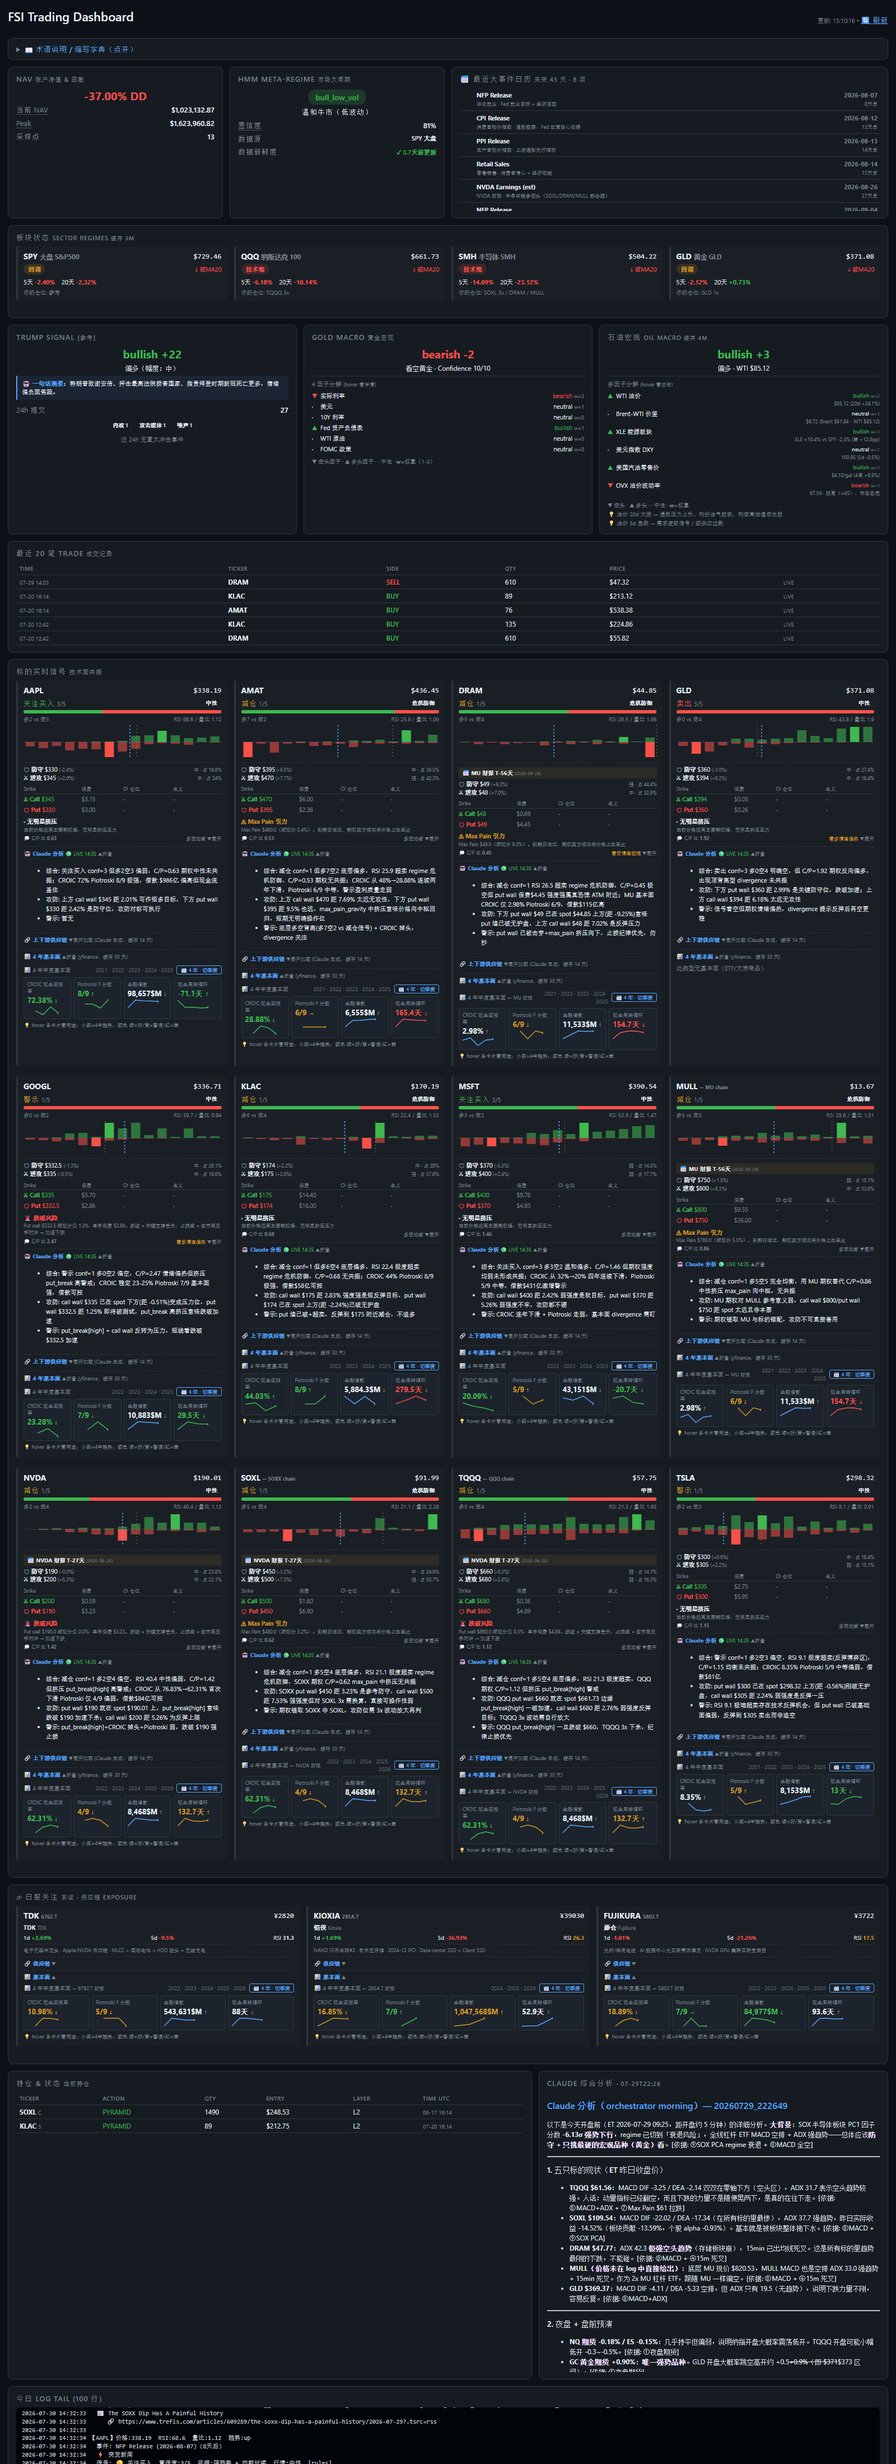
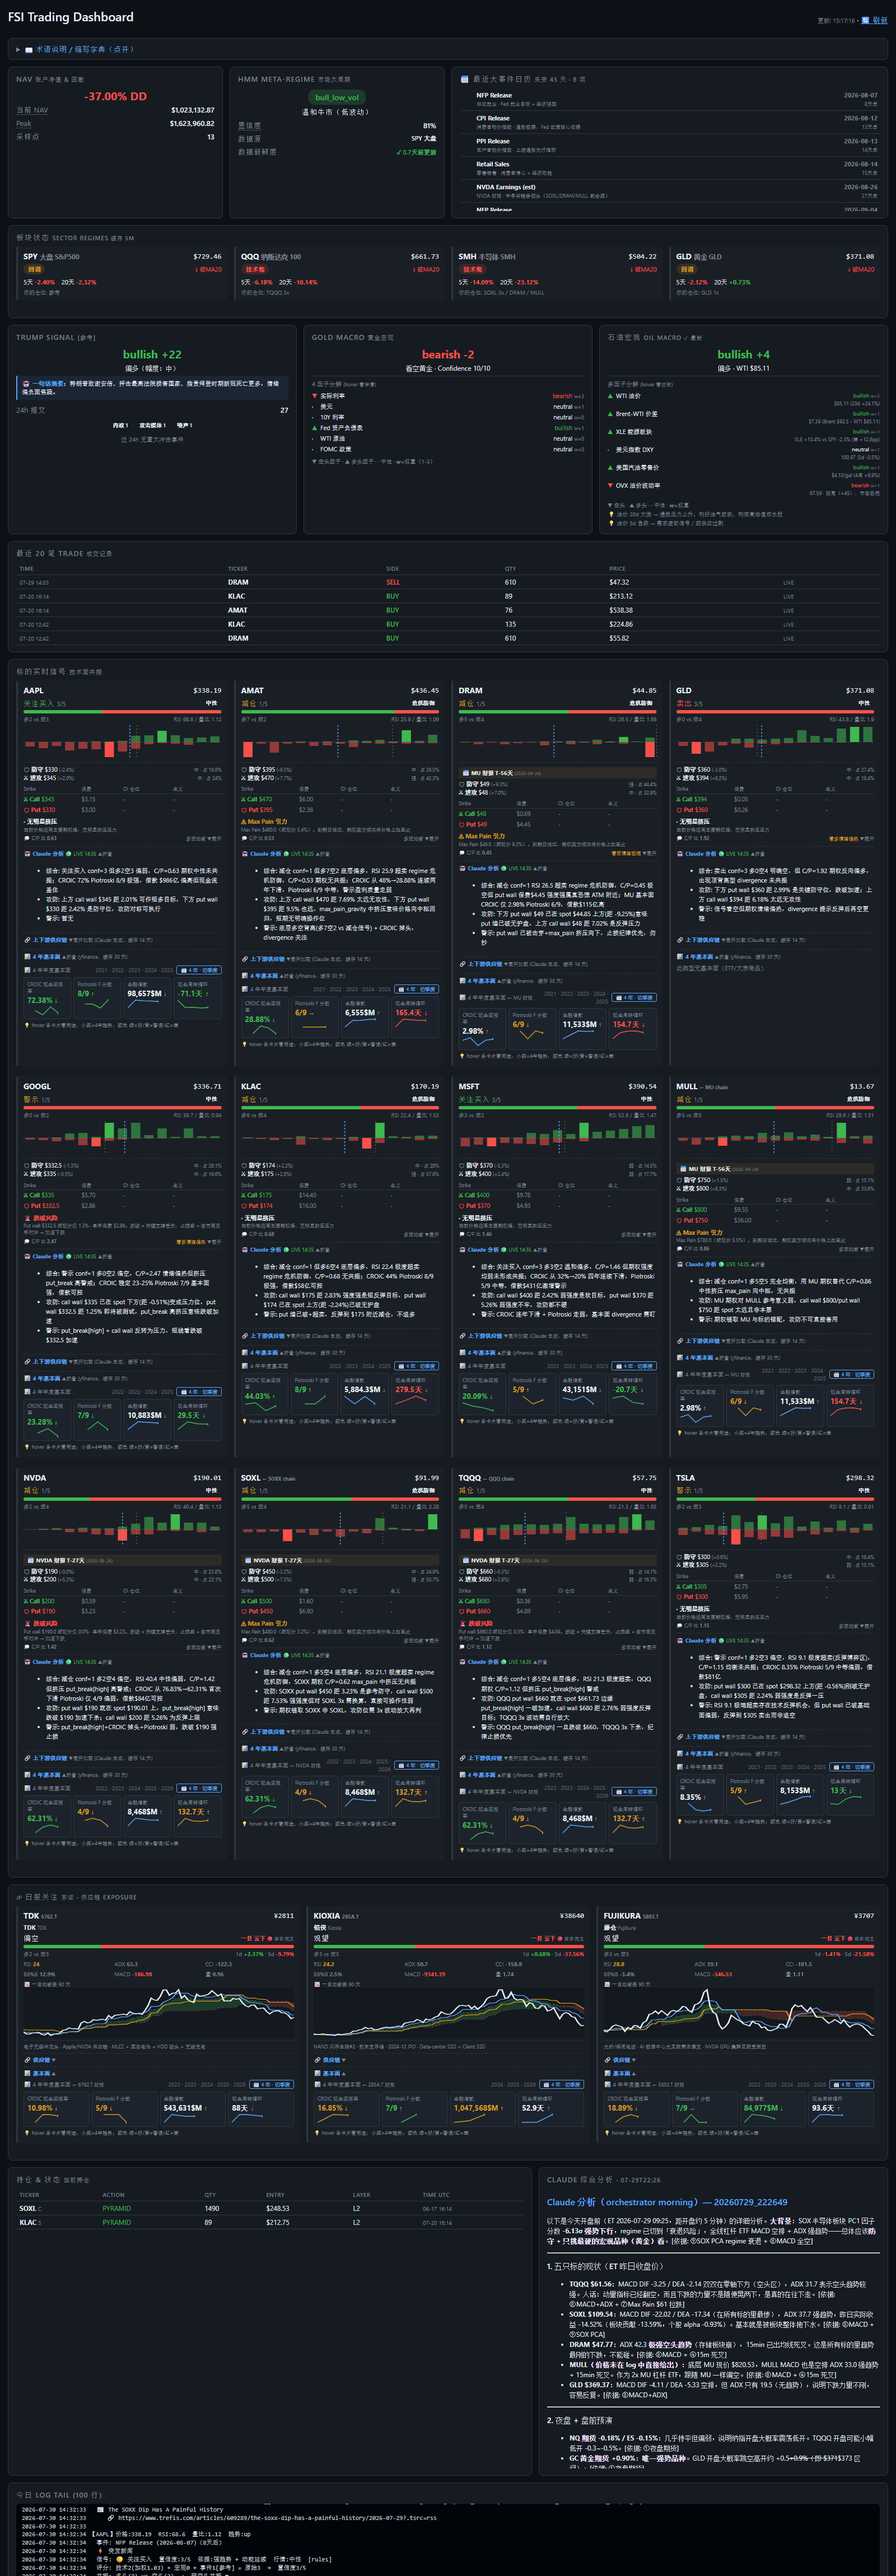
feat(webui): 日股卡完整技术栈 + 一目均衡表 SVG 云图
Phase 1: 日股卡跑完整技术指标（等价美股卡）
Phase 2: 加日本人发明的一目均衡表（云上/云下/云中 + Kumo 云可视化）

【后端 _compute_jp_watch 扩展】
从 yfinance 拉 6 月日线，算全套技术指标：
- RSI(14) / BB(20,2σ) / MACD(12,26,9) / ADX(14) / CCI(20)
- MA5/20/50 · 量比
- 一目均衡表: 転換線(9) / 基準線(26) / Senkou A/B(52)
- 共振 bull/bear count + action 建议
- 90 天时间序列（close / tenkan / kijun / span_a / span_b）供 SVG 画云

【前端】
- JP 卡改成美股卡样式: 建议 action + 多空共振条 + 6 项技术指标 grid
- 顶部一目位置 badge: 云上(绿) / 云下(红) / 云中(黄) + Kumo 云自身色 + tk 金/死叉
- renderIchimoku SVG: 90 天日线，绘制:
  · 白线=收盘价 · 蓝=転換線 · 橙=基準線
  · 绿虚=先行 Span A · 红虚=Span B
  · Kumo 云填充: SpanA>SpanB 绿云 / SpanA<SpanB 红云
- 保留供应链 + 基本面折叠

【实盘信号（当前）】
3 只 JP 半导体供应链股全部呈现 极端超卖 + 云下死叉:
- TDK: RSI 24, BB% 12.9, ADX 63(强下跌), 云下, 死叉, MA20<MA50 空排
- 铠侠: RSI 24.2, BB% 2.5%(触下轨), MACD -9341/-6044 崩塌, 云下
- 藤仓: RSI 28.8, BB% -3.4%(跌破下轨), CCI -181 极端超卖, 云下
→ 半导体链条 JP 端集体在极端超卖区，反弹条件初步具备但需 MACD 拐点确认

diff --git a/agents/dashboard.html b/agents/dashboard.html
@@ -296,6 +296,70 @@ function eventHint(evName) {
   return '';
 }
 
+// Ichimoku 云图（SVG）—— 显示最后 90 天 close + tenkan + kijun + Kumo 云
+function renderIchimoku(t, W = 260, H = 90) {
+  const s = t.series || {};
+  const close = s.close || [];
+  if (close.length < 30) return '';
+  const tenkan = s.tenkan || [];
+  const kijun  = s.kijun || [];
+  const spanA  = s.span_a || [];
+  const spanB  = s.span_b || [];
+  // 过滤 null，同步 index
+  const all = [...close, ...tenkan, ...kijun, ...spanA, ...spanB].filter(v => v != null);
+  const lo = Math.min(...all), hi = Math.max(...all);
+  const pad = (hi - lo) * 0.05 || 1;
+  const yLo = lo - pad, yHi = hi + pad;
+  const n = close.length;
+  const xAt = i => (i / (n - 1)) * W;
+  const yAt = v => v == null ? null : H - ((v - yLo) / (yHi - yLo)) * H;
+
+  // Kumo 云：spanA/spanB 之间的填充
+  const cloudPts = [];
+  for (let i = 0; i < n; i++) {
+    const a = spanA[i], b = spanB[i];
+    if (a == null || b == null) continue;
+    cloudPts.push({ x: xAt(i), a: yAt(a), b: yAt(b) });
+  }
+  let cloudPath = '';
+  if (cloudPts.length >= 2) {
+    // 分段染色：spanA > spanB → 绿云（多） / else 红云（空）
+    const buildSeg = (segPts, isBull) => {
+      const top = segPts.map(p => `${p.x.toFixed(1)},${p.a.toFixed(1)}`).join(' L');
+      const bot = [...segPts].reverse().map(p => `${p.x.toFixed(1)},${p.b.toFixed(1)}`).join(' L');
+      const fill = isBull ? 'rgba(63,185,80,0.22)' : 'rgba(248,81,73,0.22)';
+      return `<path d="M${top} L${bot} Z" fill="${fill}"/>`;
+    };
+    let cur = [], curBull = null;
+    cloudPts.forEach(p => {
+      const isBull = p.a < p.b ? false : true;   // svg y 是反的：yAt(spanA) < yAt(spanB) 对应 spanA > spanB
+      // 修正判断：spanA_val > spanB_val → 绿
+      // p.a = yAt(spanA), p.b = yAt(spanB). 由于 y 轴反向，yAt(spanA) < yAt(spanB) 表示 spanA 数值大 → 绿
+      const bull = p.a < p.b;
+      if (curBull === null || curBull === bull) {
+        cur.push(p); curBull = bull;
+      } else {
+        if (cur.length >= 2) cloudPath += buildSeg(cur, curBull);
+        cur = [cur.at(-1), p]; curBull = bull;
+      }
+    });
+    if (cur.length >= 2) cloudPath += buildSeg(cur, curBull);
+  }
+  const linePath = (arr, color, w = 1.2, dash = null) => {
+    const pts = arr.map((v, i) => v == null ? null : `${xAt(i).toFixed(1)},${yAt(v).toFixed(1)}`)
+                    .filter(Boolean).join(' L');
+    return pts ? `<path d="M${pts}" stroke="${color}" stroke-width="${w}" fill="none"${dash ? ` stroke-dasharray="${dash}"` : ''}/>` : '';
+  };
+  return `<svg width="100%" height="${H}" viewBox="0 0 ${W} ${H}" preserveAspectRatio="none" style="display:block; background:rgba(13,17,23,0.5); border-radius:3px">
+    ${cloudPath}
+    ${linePath(spanA, 'rgba(63,185,80,0.5)', 0.8, '2,2')}
+    ${linePath(spanB, 'rgba(248,81,73,0.5)', 0.8, '2,2')}
+    ${linePath(kijun, '#d29922', 1.2)}
+    ${linePath(tenkan, '#58a6ff', 1.2)}
+    ${linePath(close, '#e6edf3', 1.5)}
+  </svg>`;
+}
+
 async function loadJPWatch() {
   const r = await fetchJson('/api/jp_watch');
   const el = $('jp-watch');
@@ -306,18 +370,47 @@ async function loadJPWatch() {
     const p1cls = t.pct_1d > 0 ? 'ok' : (t.pct_1d < 0 ? 'bad' : 'muted');
     const p5cls = t.pct_5d != null ? (t.pct_5d > 0 ? 'ok' : (t.pct_5d < 0 ? 'bad' : 'muted')) : 'muted';
     const rsiCls = t.rsi >= 70 ? 'warn' : (t.rsi <= 30 ? 'warn' : 'muted');
+    const total = (t.bull_count || 0) + (t.bear_count || 0);
+    const bullPct = total ? (t.bull_count / total * 100) : 50;
+    const bearPct = total ? (t.bear_count / total * 100) : 50;
+    const actionCls = sideCls(t.action_zh);
+    const ichi = t.ichimoku || {};
+    const ichiCls = { bullish:'ok', bearish:'bad', neutral:'warn' }[ichi.direction] || '';
+    const cloudBadge = { bullish:'🟢 多云', bearish:'🔴 空云' }[ichi.cloud_color] || '⚪ 云';
+    const macdCls = t.macd_dif > t.macd_dea ? 'ok' : 'bad';
     return `
-    <div class="signal-card" title="${t.thesis}">
+    <div class="signal-card">
       <div class="top-row">
         <span class="ticker-name">${t.ticker} <small style="color:var(--muted); font-size:9px">${t.symbol}</small></span>
         <span class="price">¥${t.price}</span>
       </div>
       <div style="font-size:11px; margin:3px 0"><b>${t.name_zh}</b> <small style="color:var(--muted)">${t.name_en}</small></div>
-      <div style="display:flex; justify-content:space-between; font-size:10px; margin:4px 0">
-        <span>1d <b class="${p1cls}">${t.pct_1d > 0 ? '+' : ''}${t.pct_1d}%</b></span>
-        <span>5d <b class="${p5cls}">${t.pct_5d != null ? (t.pct_5d > 0 ? '+' : '') + t.pct_5d + '%' : '-'}</b></span>
-        <span>RSI <b class="${rsiCls}">${t.rsi}</b></span>
+      <div class="top-row">
+        <span class="${actionCls}">${t.action_zh}</span>
+        <span style="font-size:10px" class="${ichiCls}" title="一目均衡表判定：云上=多头 / 云下=空头 / 云中=震荡；${cloudBadge}=Kumo 云自身色">
+          <b>一目 ${ichi.position}</b> <small>${cloudBadge}·${ichi.tk_cross}</small>
+        </span>
       </div>
+      <div class="bar-container" title="共振多空条：绿=看多信号数，红=看空信号数">
+        <div class="bar-bull" style="width:${bullPct}%"></div>
+        <div class="bar-bear" style="width:${bearPct}%"></div>
+      </div>
+      <div style="font-size:10px; color:var(--muted); display:flex; justify-content:space-between">
+        <span>多${t.bull_count} vs 空${t.bear_count}</span>
+        <span>1d <b class="${p1cls}">${t.pct_1d > 0 ? '+' : ''}${t.pct_1d}%</b> · 5d <b class="${p5cls}">${t.pct_5d != null ? (t.pct_5d > 0 ? '+' : '') + t.pct_5d + '%' : '-'}</b></span>
+      </div>
+      <div style="font-size:10px; color:var(--muted); display:grid; grid-template-columns:1fr 1fr 1fr; gap:4px; margin-top:4px">
+        <span title="Relative Strength Index 14 · <30 超卖 / >70 超买">RSI <b class="${rsiCls}">${t.rsi}</b></span>
+        <span title="Average Directional Index · >25 有趋势 / >40 强趋势">ADX <b>${t.adx}</b></span>
+        <span title="Commodity Channel Index · <-100 超卖 / >100 超买">CCI <b>${t.cci}</b></span>
+        <span title="Bollinger %B · <0 破下轨 / >100 破上轨">BB%B <b>${t.bb_pct_b}%</b></span>
+        <span title="MACD DIF/DEA · DIF>DEA 多头">MACD <b class="${macdCls}">${t.macd_dif > 0 ? '+' : ''}${t.macd_dif}</b></span>
+        <span title="量比 · >1.5 放量">量 <b>${t.vol_ratio}</b></span>
+      </div>
+      <div style="font-size:9px; color:var(--muted); margin-top:5px" title="日线 90 天 · 白=价格 · 蓝=転換線(9) · 橙=基準線(26) · 绿虚=先行 Span A · 红虚=先行 Span B · 云=Kumo">
+        📉 一目均衡表 90 天
+      </div>
+      ${renderIchimoku(t)}
       <div style="font-size:9px; color:var(--muted); line-height:1.4; margin-top:4px; border-top:1px dashed var(--border); padding-top:4px">${t.thesis}</div>
       <details data-details-key="jpsc-${t.ticker}" style="border-top:1px dashed var(--border); margin-top:5px; padding-top:4px" ontoggle="rememberDetailsState(this); if(this.open) loadSupplyChainOnDemand('${t.ticker}', 'jpsc-body-${t.ticker}')">
         <summary style="cursor:pointer; list-style:none; font-size:10px; color:var(--muted)">🔗 <b style="color:#58a6ff">供应链</b> <small style="font-size:9px">▼</small></summary>
@@ -329,7 +422,6 @@ async function loadJPWatch() {
       </details>
     </div>`;
   }).join('');
-  // 恢复用户展开状态 + 触发默认 open 的懒加载
   restoreDetailsState();
   document.querySelectorAll('#jp-watch details[open][data-details-key]').forEach(el => {
     if (el.getAttribute('ontoggle')) el.dispatchEvent(new Event('toggle'));

diff --git a/agents/webui.py b/agents/webui.py
@@ -1025,37 +1025,183 @@ def api_jp_watch() -> dict:
 
 
 def _compute_jp_watch() -> dict:
+    """3 只日股：完整技术栈（RSI/MA/BB/MACD/ADX/CCI/PSAR-lite/量比 + 共振）+ 一目均衡表。"""
     import yfinance as yf
+    import pandas as pd
+    import numpy as np
     out = {"ts": datetime.now(timezone.utc).isoformat(), "tickers": []}
     for entry in JP_WATCH_LIST:
         try:
             t = yf.Ticker(entry["symbol"])
-            h = t.history(period="10d", auto_adjust=True)
-            if h.empty:
-                out["tickers"].append({**entry, "error": "no data"})
+            # 6 月足够算 Ichimoku 52 期 + Kijun 26 期 + 观察 60 天
+            h = t.history(period="6mo", auto_adjust=True)
+            if h.empty or len(h) < 55:
+                out["tickers"].append({**entry, "error": f"insufficient bars ({len(h)})"})
                 continue
             close = h["Close"].astype(float)
+            high  = h["High"].astype(float)
+            low   = h["Low"].astype(float)
+            vol   = h["Volume"].astype(float)
             price = float(close.iloc[-1])
-            prev  = float(close.iloc[-2]) if len(close) >= 2 else price
-            pct_1d = ((price / prev) - 1) * 100 if prev else 0
+            prev  = float(close.iloc[-2])
+            pct_1d = ((price / prev) - 1) * 100
             pct_5d = ((price / float(close.iloc[-6])) - 1) * 100 if len(close) >= 6 else None
-            # 简单 RSI 14
-            deltas = close.diff().dropna()
-            gains  = deltas.clip(lower=0)
-            losses = -deltas.clip(upper=0)
-            avg_gain = gains.tail(14).mean() if len(gains) >= 14 else gains.mean()
-            avg_loss = losses.tail(14).mean() if len(losses) >= 14 else losses.mean()
-            rsi = 100 - (100 / (1 + (avg_gain / avg_loss))) if avg_loss and avg_loss > 0 else 50
+
+            # ── RSI(14) ──
+            delta = close.diff()
+            gain  = delta.clip(lower=0).rolling(14).mean()
+            loss  = (-delta.clip(upper=0)).rolling(14).mean()
+            rs    = gain / loss.replace(0, 1e-9)
+            rsi_val = float((100 - 100 / (1 + rs)).iloc[-1])
+
+            # ── MA5/20/50 ──
+            ma5  = float(close.rolling(5).mean().iloc[-1])
+            ma20 = float(close.rolling(20).mean().iloc[-1])
+            ma50 = float(close.rolling(50).mean().iloc[-1]) if len(close) >= 50 else None
+
+            # ── Bollinger(20, 2σ) ──
+            bb_m = close.rolling(20).mean()
+            bb_s = close.rolling(20).std()
+            bb_up = float((bb_m + 2 * bb_s).iloc[-1])
+            bb_dn = float((bb_m - 2 * bb_s).iloc[-1])
+            bb_pct_b = (price - bb_dn) / (bb_up - bb_dn) if bb_up > bb_dn else 0.5
+
+            # ── MACD(12,26,9) ──
+            ema12 = close.ewm(span=12, adjust=False).mean()
+            ema26 = close.ewm(span=26, adjust=False).mean()
+            macd_line = ema12 - ema26
+            signal_line = macd_line.ewm(span=9, adjust=False).mean()
+            macd_dif = float(macd_line.iloc[-1])
+            macd_dea = float(signal_line.iloc[-1])
+
+            # ── ADX(14) ──
+            up_move   = high.diff()
+            down_move = -low.diff()
+            plus_dm   = up_move.where((up_move > down_move) & (up_move > 0), 0)
+            minus_dm  = down_move.where((down_move > up_move) & (down_move > 0), 0)
+            tr1 = high - low
+            tr2 = (high - close.shift()).abs()
+            tr3 = (low - close.shift()).abs()
+            tr  = pd.concat([tr1, tr2, tr3], axis=1).max(axis=1)
+            atr = tr.rolling(14).mean().replace(0, 1e-9)
+            plus_di  = 100 * plus_dm.rolling(14).mean()  / atr
+            minus_di = 100 * minus_dm.rolling(14).mean() / atr
+            dx = 100 * (plus_di - minus_di).abs() / (plus_di + minus_di).replace(0, 1e-9)
+            adx_val = float(dx.rolling(14).mean().iloc[-1])
+
+            # ── CCI(20) ──
+            tp = (high + low + close) / 3
+            sma_tp = tp.rolling(20).mean()
+            mad = tp.rolling(20).apply(lambda x: (x - x.mean()).abs().mean(), raw=False)
+            cci_val = float(((tp - sma_tp) / (0.015 * mad.replace(0, 1e-9))).iloc[-1])
+
+            # ── 量比 ──
+            vol_avg = float(vol.tail(20).mean())
+            vol_ratio = float(vol.iloc[-1]) / vol_avg if vol_avg else 1
+
+            # ── 一目均衡表 Ichimoku ──
+            # 転換線 Tenkan(9), 基準線 Kijun(26), Senkou A/B(52), 遅行 = 当前价 推 26 天前
+            tenkan_series   = (high.rolling(9).max() + low.rolling(9).min()) / 2
+            kijun_series    = (high.rolling(26).max() + low.rolling(26).min()) / 2
+            senkou_a_series = (tenkan_series + kijun_series) / 2
+            senkou_b_series = (high.rolling(52).max() + low.rolling(52).min()) / 2
+            tenkan   = float(tenkan_series.iloc[-1])
+            kijun    = float(kijun_series.iloc[-1])
+            senkou_a = float(senkou_a_series.iloc[-1])
+            senkou_b = float(senkou_b_series.iloc[-1])
+            cloud_top = max(senkou_a, senkou_b)
+            cloud_bot = min(senkou_a, senkou_b)
+            if price > cloud_top:
+                ichi_pos, ichi_dir = "云上", "bullish"
+            elif price < cloud_bot:
+                ichi_pos, ichi_dir = "云下", "bearish"
+            else:
+                ichi_pos, ichi_dir = "云中", "neutral"
+            cloud_color = "bullish" if senkou_a > senkou_b else "bearish"
+            tk_cross = "金叉" if tenkan > kijun else "死叉"
+
+            # ── 共振（bull/bear count）──
+            bull, bear = 0, 0
+            reasons_bull, reasons_bear = [], []
+            def _add(cond, label, side):
+                nonlocal bull, bear
+                if cond:
+                    if side == 'b': bull += 1; reasons_bull.append(label)
+                    else: bear += 1; reasons_bear.append(label)
+            _add(price > ma20, "价格站上MA20", 'b')
+            _add(price < ma20, "价格跌破MA20", 's')
+            if ma50:
+                _add(ma20 > ma50, "均线多排 MA20>MA50", 'b')
+                _add(ma20 < ma50, "均线空排 MA20<MA50", 's')
+            _add(rsi_val < 30, f"RSI 超卖 {rsi_val:.0f}", 'b')
+            _add(rsi_val > 70, f"RSI 超买 {rsi_val:.0f}", 's')
+            _add(bb_pct_b < 0.1, "跌破布林下轨", 'b')
+            _add(bb_pct_b > 0.9, "冲破布林上轨", 's')
+            _add(macd_dif > macd_dea and macd_dif > 0, "MACD 多头零轴上", 'b')
+            _add(macd_dif < macd_dea and macd_dif < 0, "MACD 空头零轴下", 's')
+            _add(cci_val < -100, "CCI 超卖", 'b')
+            _add(cci_val > 100, "CCI 超买", 's')
+            _add(ichi_dir == "bullish", "一目 云上", 'b')
+            _add(ichi_dir == "bearish", "一目 云下", 's')
+            _add(tk_cross == "金叉" and price > kijun, "转换>基准 (金叉)", 'b')
+            _add(tk_cross == "死叉" and price < kijun, "转换<基准 (死叉)", 's')
+
+            # 简单 action
+            if bull - bear >= 3 and rsi_val < 40: action = "关注买入"
+            elif bull - bear >= 3: action = "偏多"
+            elif bear - bull >= 3 and rsi_val > 60: action = "警示"
+            elif bear - bull >= 3: action = "偏空"
+            else: action = "观望"
+
+            trend = "up" if price > ma20 else "down"
+
+            # ── 时间序列（供 SVG 画 Ichimoku 云图，最后 90 天）──
+            N = min(90, len(close))
+            series_close   = close.tail(N).tolist()
+            series_tenkan  = tenkan_series.tail(N).tolist()
+            series_kijun   = kijun_series.tail(N).tolist()
+            series_span_a  = senkou_a_series.tail(N).tolist()
+            series_span_b  = senkou_b_series.tail(N).tolist()
+
             out["tickers"].append({
                 **entry,
-                "price":  round(price, 2),
-                "pct_1d": round(pct_1d, 2),
-                "pct_5d": round(pct_5d, 2) if pct_5d is not None else None,
-                "rsi":    round(float(rsi), 1),
+                "price":     round(price, 2),
+                "pct_1d":    round(pct_1d, 2),
+                "pct_5d":    round(pct_5d, 2) if pct_5d is not None else None,
+                "rsi":       round(rsi_val, 1),
+                "ma20":      round(ma20, 2),
+                "ma50":      round(ma50, 2) if ma50 else None,
+                "bb_pct_b":  round(bb_pct_b * 100, 1),
+                "macd_dif":  round(macd_dif, 2),
+                "macd_dea":  round(macd_dea, 2),
+                "adx":       round(adx_val, 1),
+                "cci":       round(cci_val, 1),
+                "vol_ratio": round(vol_ratio, 2),
+                "trend":     trend,
+                "bull_count": bull, "bear_count": bear,
+                "reasons_bull": reasons_bull, "reasons_bear": reasons_bear,
+                "action_zh": action,
+                "ichimoku": {
+                    "tenkan":   round(tenkan, 2),
+                    "kijun":    round(kijun, 2),
+                    "senkou_a": round(senkou_a, 2),
+                    "senkou_b": round(senkou_b, 2),
+                    "position": ichi_pos,       # 云上/云中/云下
+                    "direction": ichi_dir,
+                    "cloud_color": cloud_color, # 云的颜色（红=空 / 绿=多）
+                    "tk_cross": tk_cross,
+                },
+                "series": {
+                    "close":  [round(float(v), 2) for v in series_close],
+                    "tenkan": [round(float(v), 2) if v == v else None for v in series_tenkan],
+                    "kijun":  [round(float(v), 2) if v == v else None for v in series_kijun],
+                    "span_a": [round(float(v), 2) if v == v else None for v in series_span_a],
+                    "span_b": [round(float(v), 2) if v == v else None for v in series_span_b],
+                },
                 "currency": "JPY",
             })
         except Exception as e:
-            out["tickers"].append({**entry, "error": str(e)[:80]})
+            out["tickers"].append({**entry, "error": str(e)[:100]})
     return out
 
 
